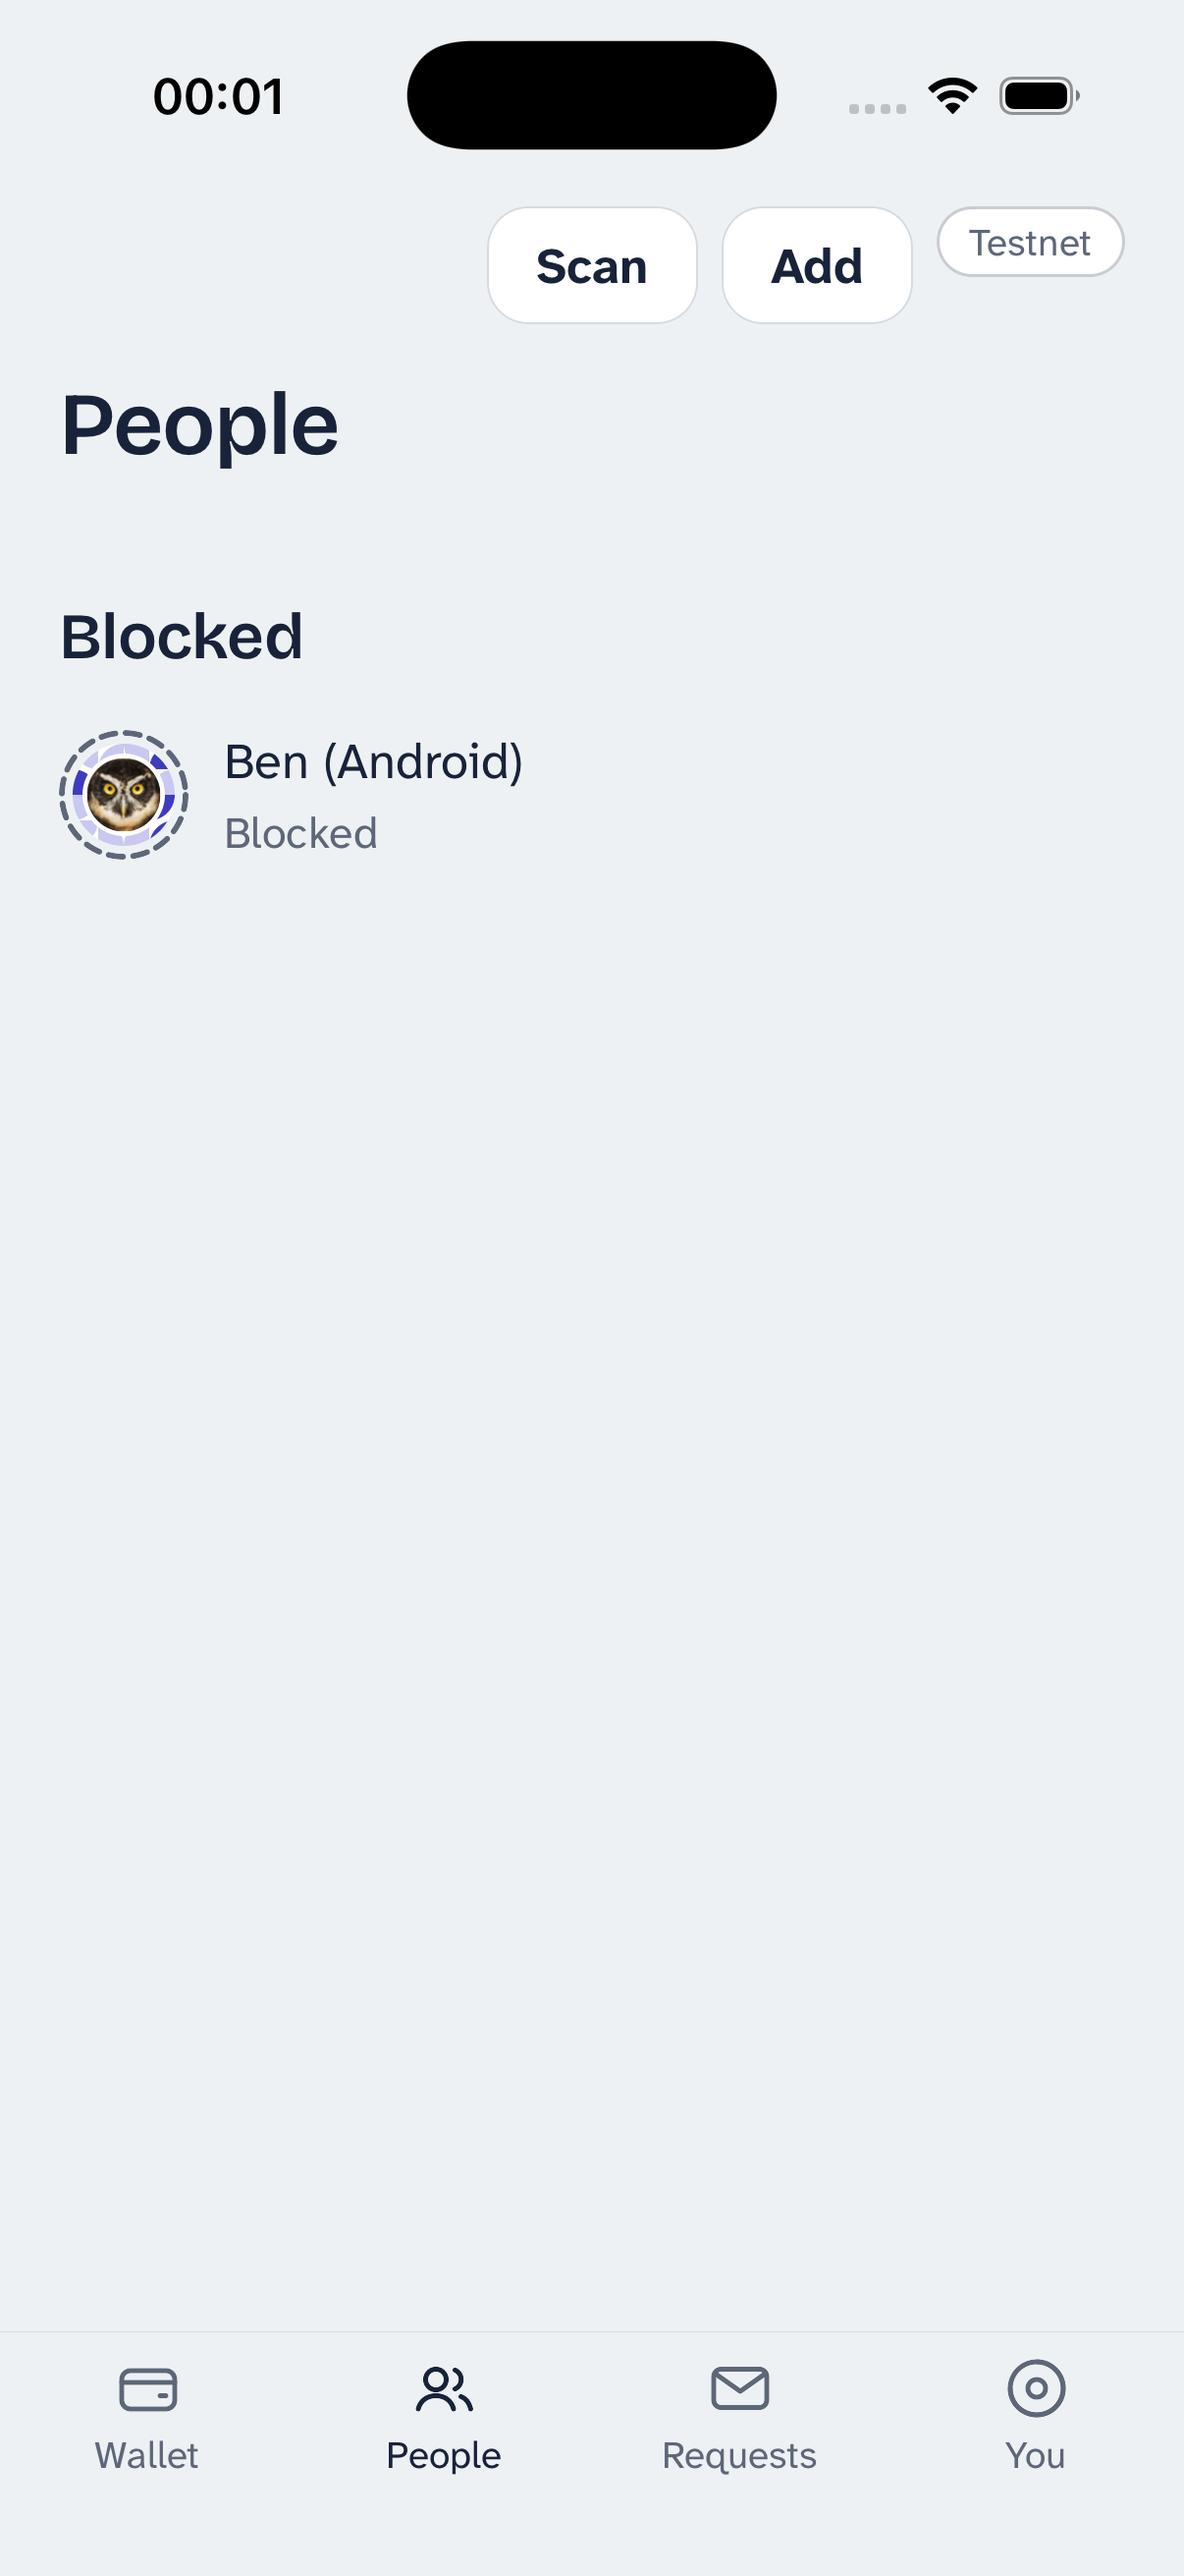
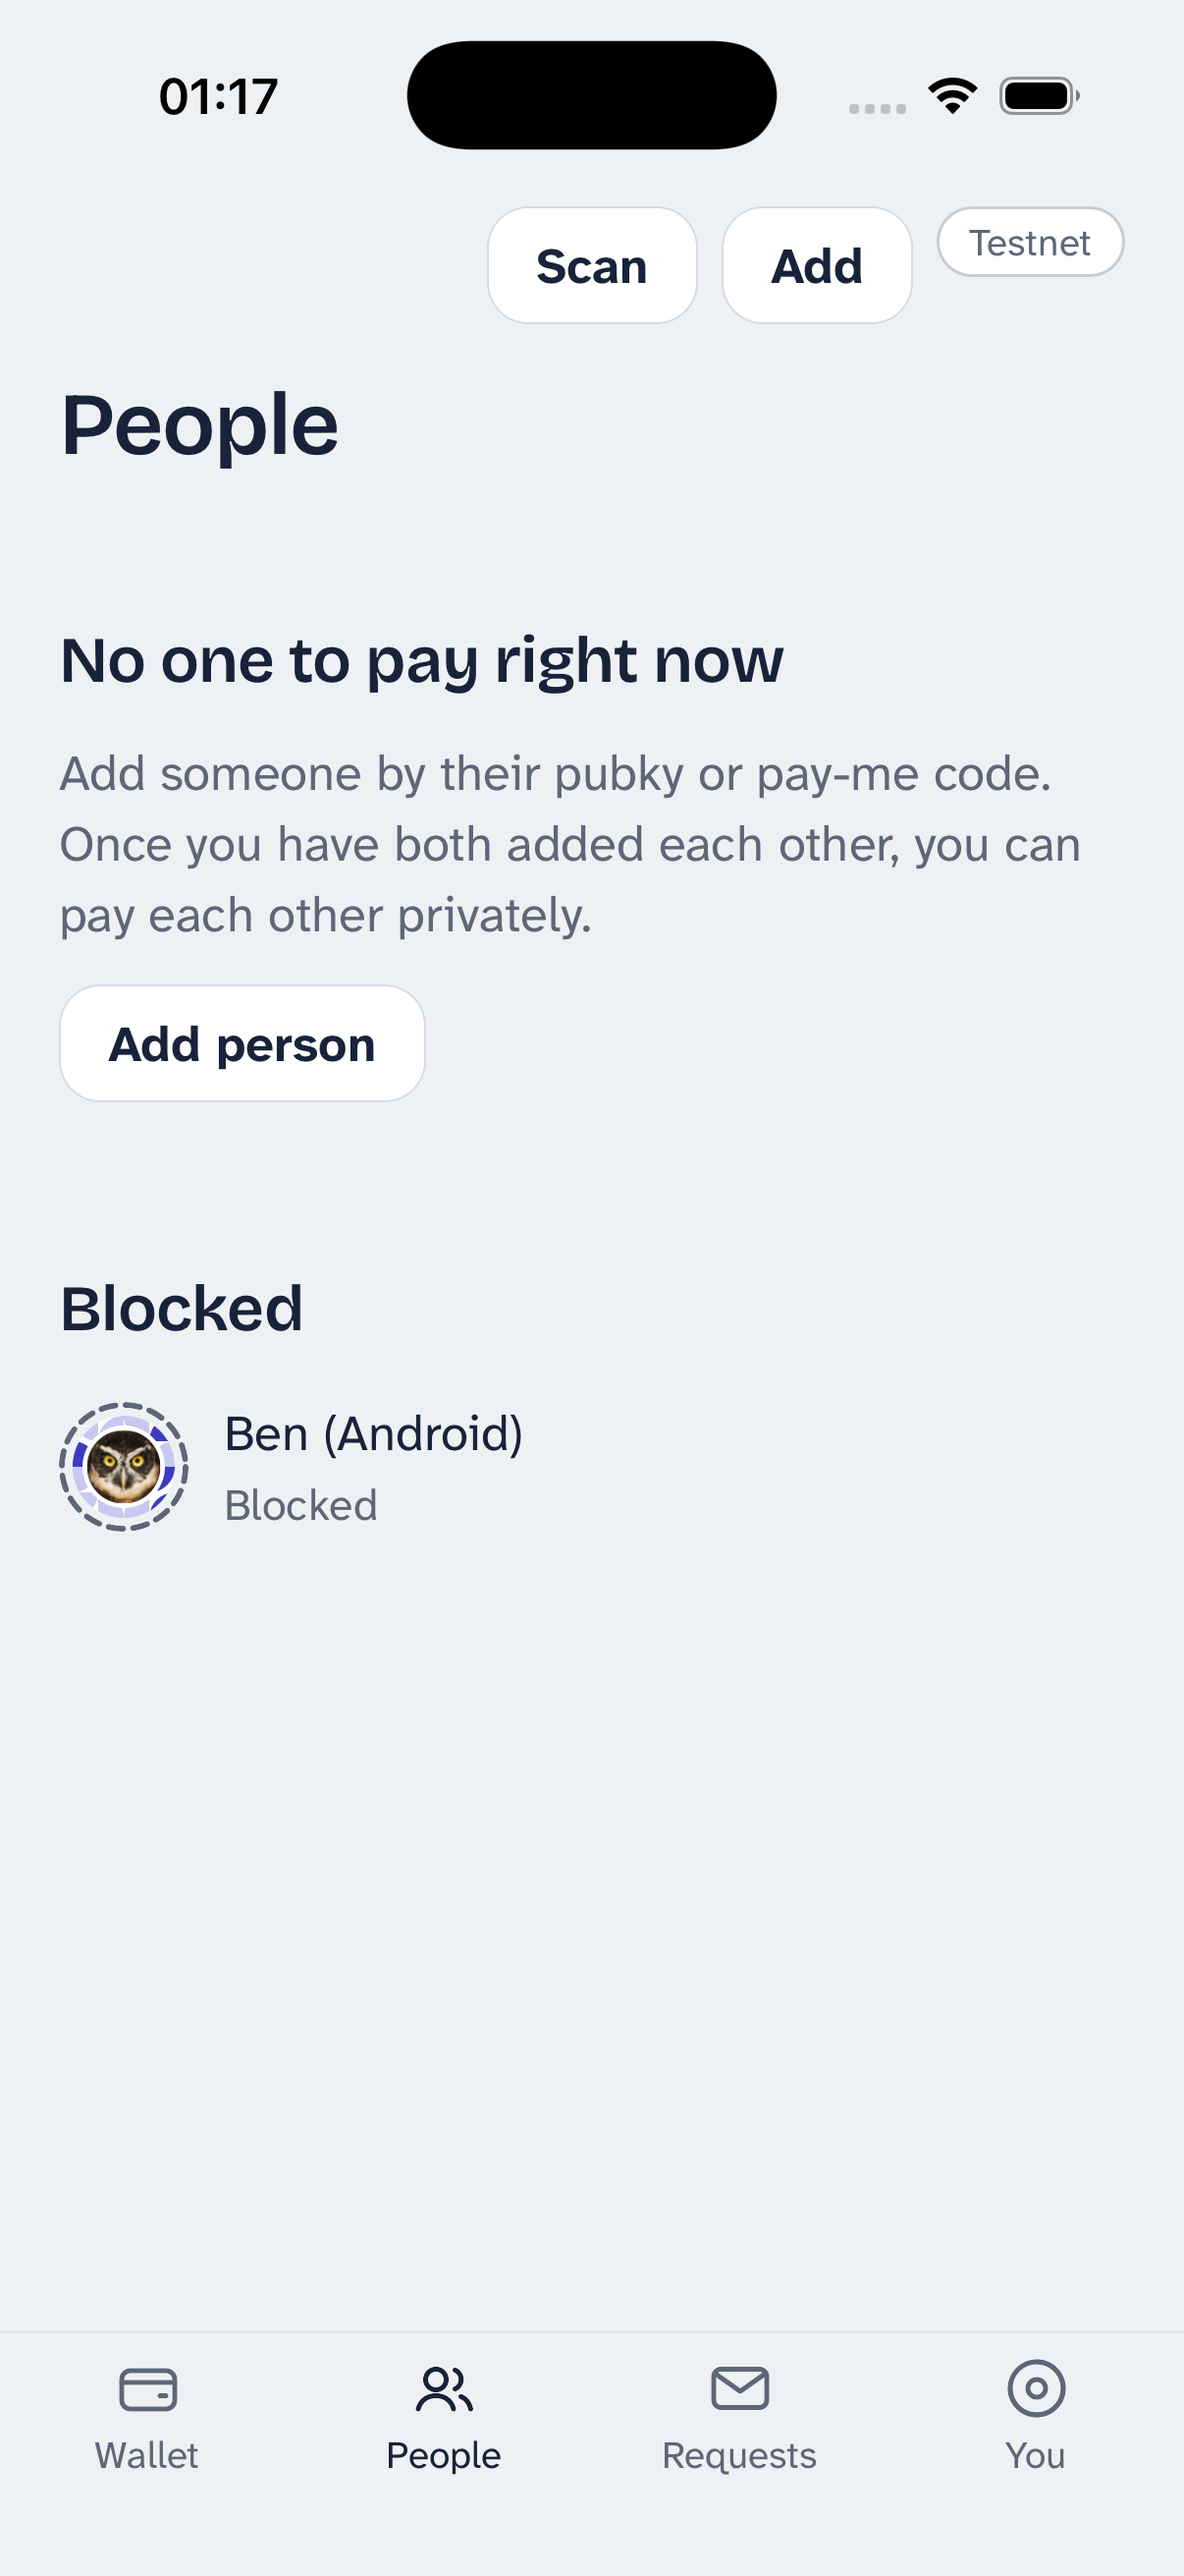
docs: retake phase 6 screenshots after the review fixes
Block, Remove and Forget confirmations with the new wording, People
with only blocked contacts, the offer screen with the per-payment floor
and its guard against a second offer, the payee's Accept automatic
payments, the request note as two sentences, and the backup section
recording a backup only once copied. No phrase or backup text is shown.

diff --git a/docs/ARCHITECTURE.md b/docs/ARCHITECTURE.md
@@ -563,7 +563,10 @@ Remove, each after a confirmation (`person/PersonActions.tsx`):
   `endAllowance`, which queues an End message and needs a ready link; for
   a peer who is unreachable, that fails, and the local stop still holds.
   After an Unblock the Person page marks a stopped Allowance as stopped,
-  with End to tell them, and allows a new offer.
+  with End to tell them, and allows a new offer. Checked on the
+  simulators: blocking Ben ended Ana's accepted Allowance on both phones
+  (the End left with the withdrawn list, before the block), and after
+  Unblock a new offer and acceptance worked.
 - **Unblock** (`unblockPeer`): back to NotLinked; the SDK does not restore
   the old link. Because they are still a contact, the next sync round
   calls `ensureLinkWithPeer` with a new attempt id; their wallet sees the
